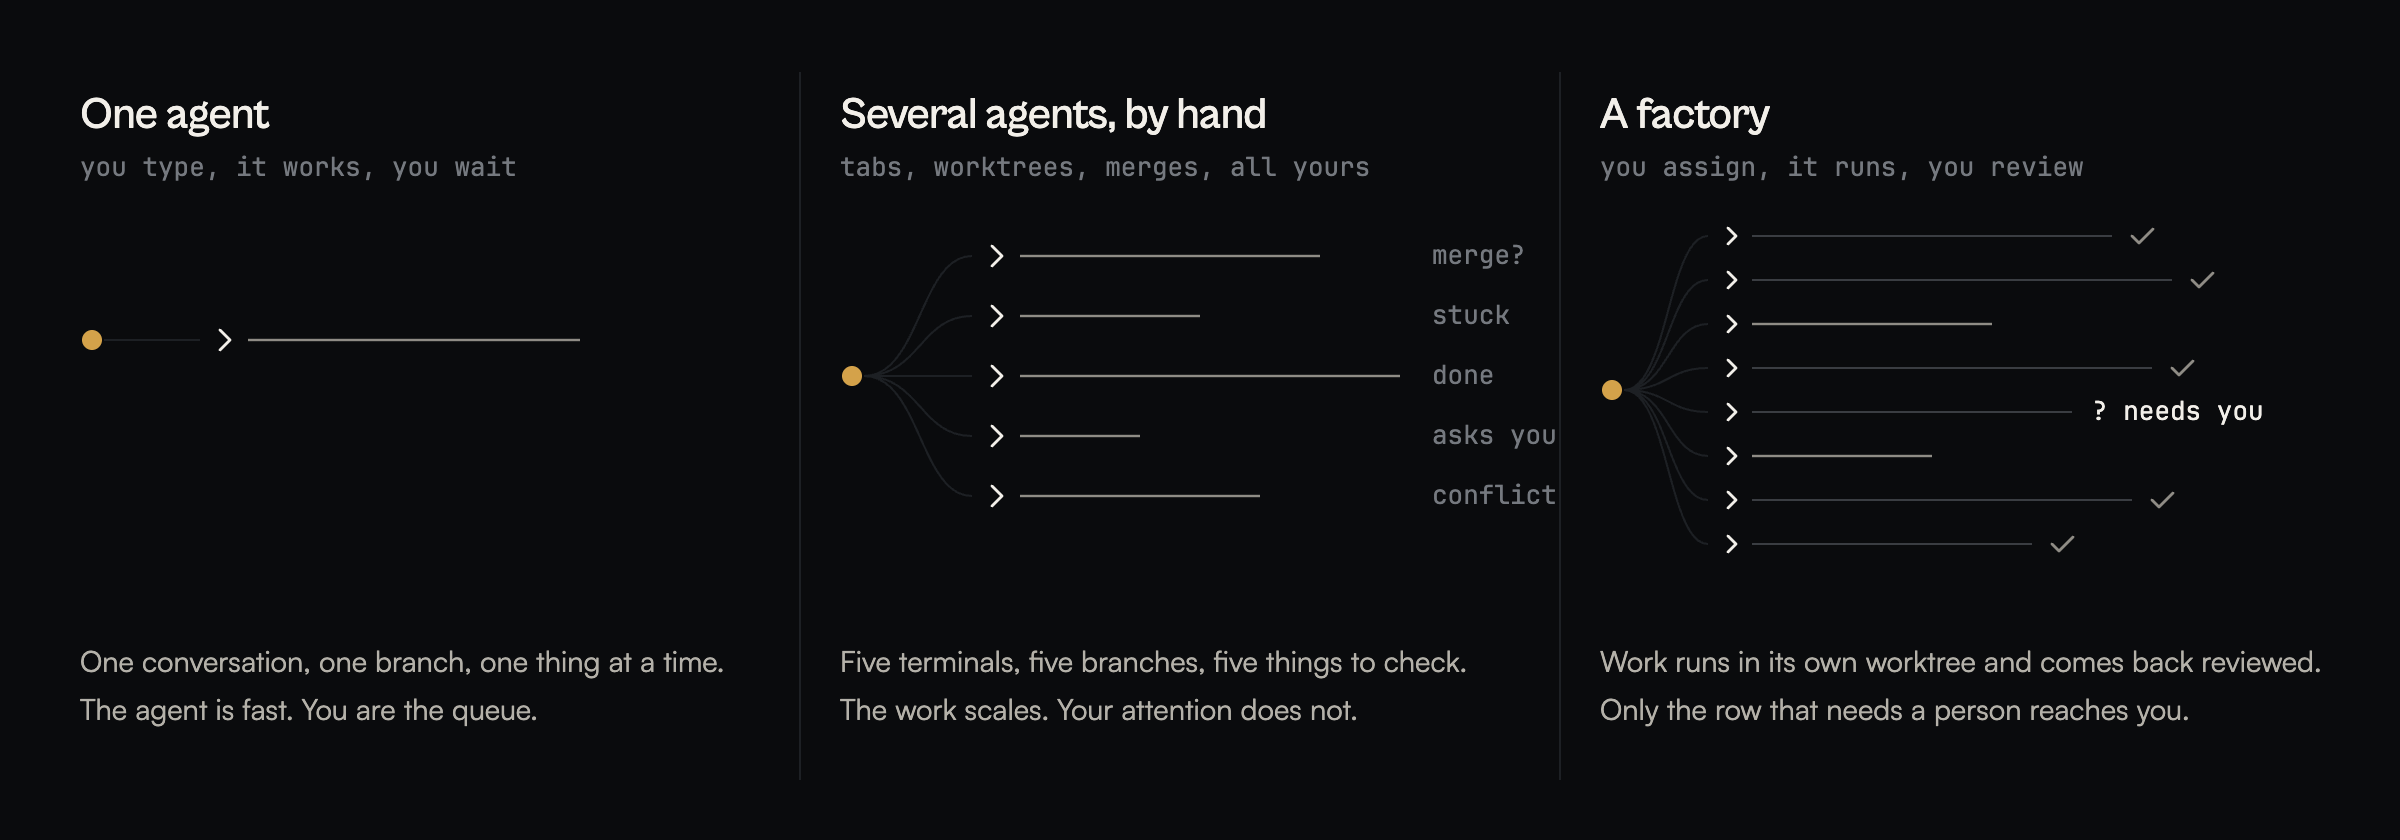
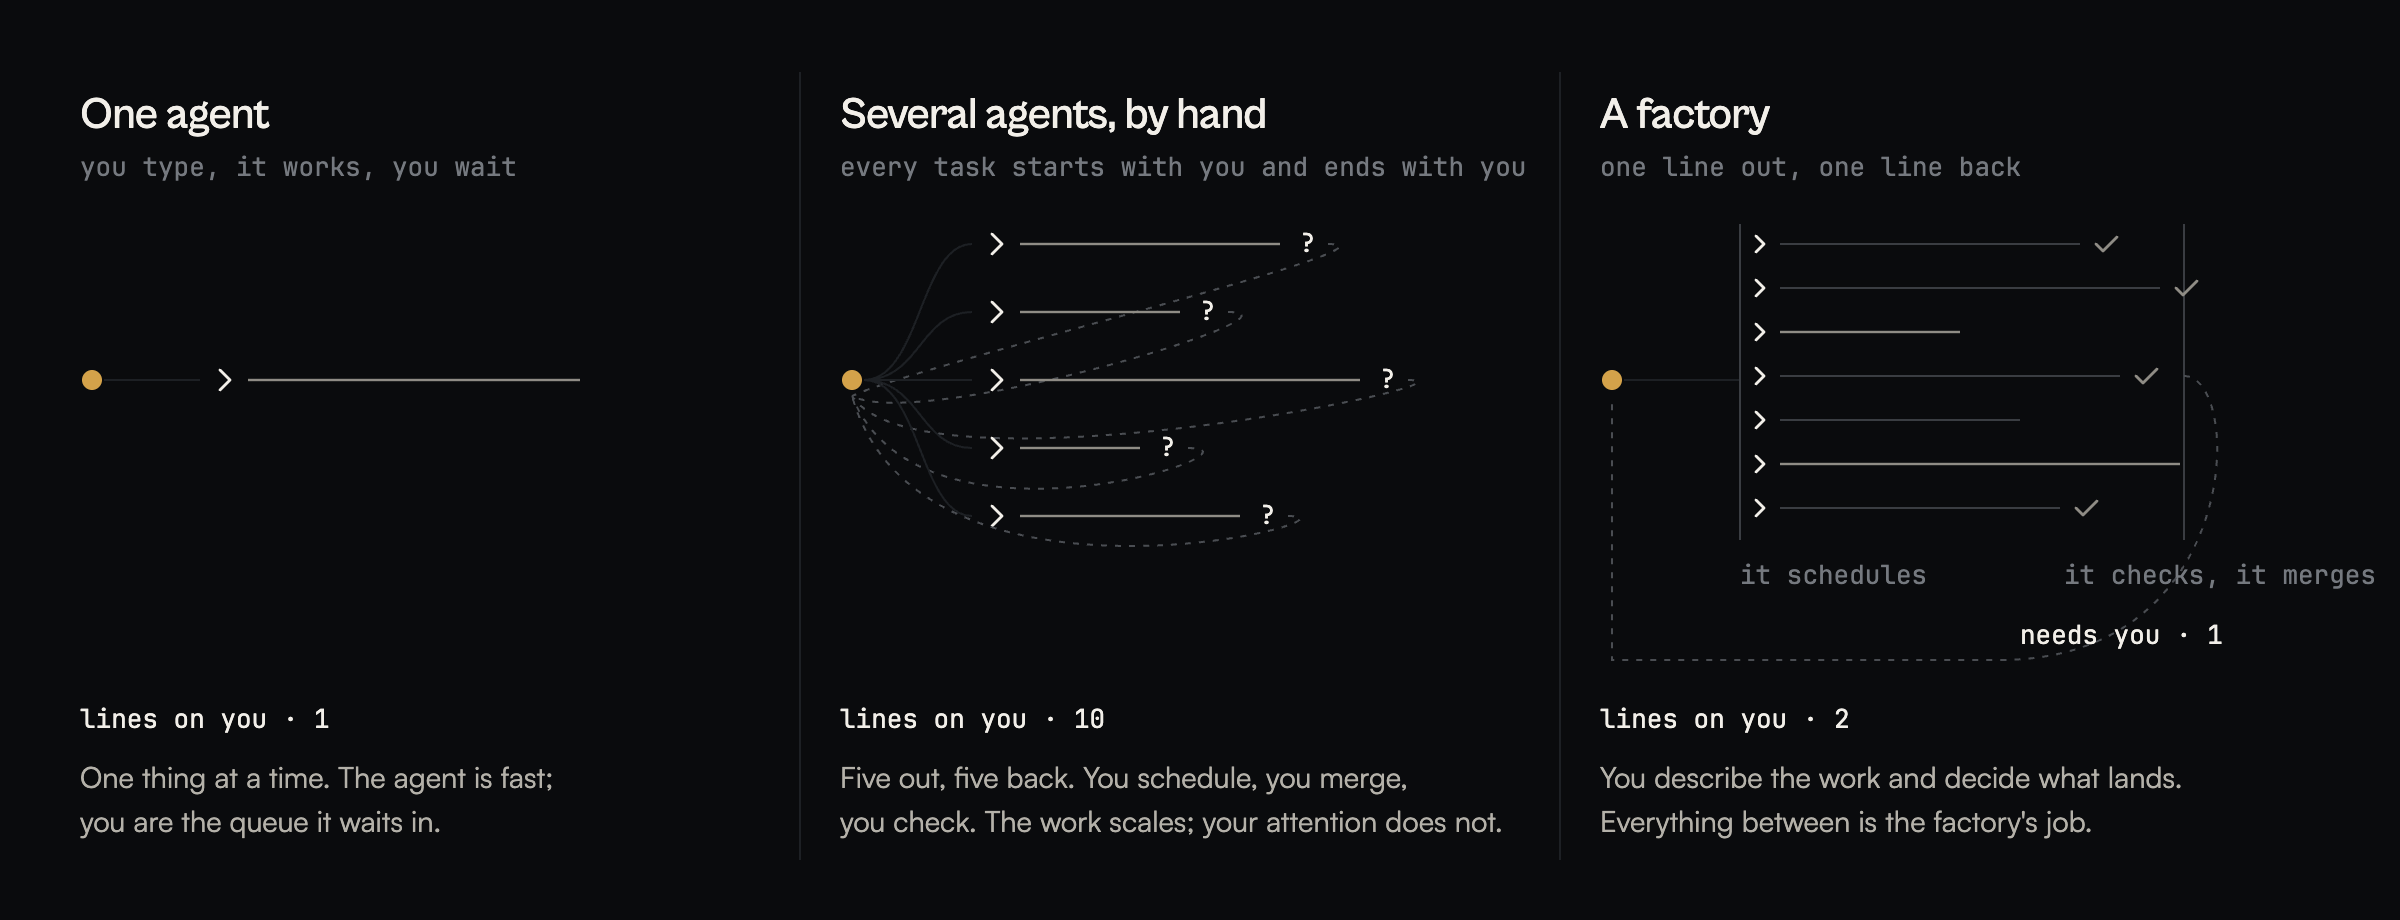
README: CodeAF in prose, the control room, the six seats, headless as a front door, a diagram that argues in lines

diff --git a/README.md b/README.md
@@ -1,6 +1,6 @@
 <div align="center">
 
-<img src="assets/readme/hero.jpg" alt="codeaf, the open-source software factory. Direct the work from your terminal, servers or phone." width="100%">
+<img src="assets/readme/hero.jpg" alt="CodeAF, the open-source software factory. Direct the work from your terminal, servers or phone. Any model, open by default." width="100%">
 
 <br>
 
@@ -13,16 +13,18 @@
 <a href="#install">Install</a> ·
 <a href="#what-a-factory-is">What a factory is</a> ·
 <a href="#benchmarks">Benchmarks</a> ·
+<a href="#headless-is-the-other-front-door">Headless</a> ·
 <a href="#switching-from-opencode-pi-or-aider">Switching</a> ·
 <a href="docs/GUIDE.md">Guide</a>
 </p>
 
 </div>
 
-codeaf is an open-source software factory for your terminal. You describe the
-work. It runs in its own worktree, on the model you choose, and comes back for
-your review. One binary, no account, no service to run. Any model, open models
-by default. Apache 2.0. By [AgentField AI](https://agentfield.ai).
+CodeAF is an open-source software factory for your terminal. You describe the
+work and decide what lands. It plans, runs, checks and merges, on the model
+you choose for each call, and comes back only when it needs you. One binary, no
+account, no service to run. Any model, open models by default. Apache 2.0. By
+[AgentField AI](https://agentfield.ai).
 
 ## Install
 
@@ -31,17 +33,16 @@ curl -fsSL https://agentfield.ai/get/codeaf | bash
 codeaf
 ```
 
-The script fetches the release binary for your platform into `~/.codeaf/bin`.
-Prefer to build it yourself: `git clone`, `make build`, `bin/codeaf`
+The script puts the release binary for your platform in `~/.codeaf/bin`. To
+build it yourself: `git clone`, `make build`, `bin/codeaf`
 ([guide](docs/GUIDE.md#install)). Release assets, checksums and version
 pinning are on the [releases page](https://github.com/Agent-Field/codeaf/releases).
 
 On first start it asks for a key: OpenRouter, DeepSeek, GLM, Kimi, MiniMax or
 Qwen. Point it at Ollama and it needs no key.
 
-Everything is in the one binary: the tools, tasks and their worktrees,
-standing orders, memory, spend, search, remote access, the headless commands
-and a manual about itself.
+Everything is in the one binary: the tools, tasks, standing orders, memory,
+spend, search, remote access, the headless commands and a manual about itself.
 
 <!-- TODO: binary size, cold start, idle memory. -->
 
@@ -55,8 +56,8 @@ want to watch.
    per-client backoff numbers, and make the tests pass
 ```
 
-The task exists when you press enter. It cuts a worktree, works there, and the
-conversation is yours again. Describe the work without `/task` and codeaf
+The task exists when you press enter. It works on its own branch, and the
+conversation is yours again. Describe the work without `/task` and CodeAF
 proposes one on a card when the job is bigger than a few edits, and waits for
 your yes.
 
@@ -68,7 +69,7 @@ Nothing merges without you.
      lands, `a` accepts it. 160x45, about 20s, scripted with vhs. -->
 <img src="assets/readme/screens/tasks.png" alt="a conversation with tasks running in the column beside it" width="100%">
 
-Every turn ends with its price, so you always know what a thing cost.
+Every turn ends with its price.
 
 ```text
                                           · 19:31 · 3.2s · 1 tool call · $0.0008 · ❮
@@ -77,23 +78,28 @@ Every turn ends with its price, so you always know what a thing cost.
 
 ## What a factory is
 
-If you have three terminals open with three agents, three worktrees and a merge
-waiting, you already run a factory, by hand. The agents got fast. The
-scheduling, the merging and the checking stayed with you.
+If you have three terminals open with three agents and a merge waiting, you
+already run a factory, by hand. The agents got fast. The scheduling, the
+checking and the merging stayed with you, and every task starts with you and
+ends with you.
 
-<img src="assets/readme/how-work-changes.png" alt="one agent: you wait. several agents by hand: you are the scheduler. a factory: you assign and review." width="100%">
+<img src="assets/readme/how-work-changes.png" alt="one agent: one line on you, you wait. several agents by hand: ten lines on you, you schedule, merge and check. a factory: one line out, one line back." width="100%">
 
-More work in flight means more to check, so a factory only helps if checking
-gets cheaper. Two things do that here.
+Count the lines that touch the person. A factory is the third picture: one
+line out, one line back. What makes that possible:
 
-- **Work runs where it cannot collide.** Each task gets its own worktree and
-  its own budget. It keeps a record you can read, and it comes back as one
-  thing to accept or send back, not five terminals to reconcile.
+- **The factory does the middle.** It sizes the work, splits it when one
+  worker is not enough, runs the parts where they cannot collide, tests what
+  came back, and merges what passed. You see one thing per task: land it, or
+  send it back.
+- **It asks only when it must.** A question a person has to answer waits under
+  `needs you` on `home`. Everything else it decides, records the decision, and
+  carries on.
 - **Specialist tasks check themselves.** Work that comes round in the same
   shape (review this pull request, chase this flaky test, audit these
-  dependencies) runs as a saved program with typed input and typed output.
-  It plans, fans out, tests its own result, and either produces what it
-  promised or is marked incomplete. Those are the tasks in the benchmark below.
+  dependencies) runs as a saved program with typed input and typed output. It
+  either produces what it promised or is marked incomplete. Those are the tasks
+  in the benchmark below.
 
 <!-- TODO: settle the public name. The manual calls these subharnesses and the
      command is /subharness; this README says specialist task. -->
@@ -109,54 +115,101 @@ below on the same open model, `[MODEL]`. Versions and configs are in
 
 | harness | version | pass rate | cost per issue | time per issue |
 | --- | --- | --- | --- | --- |
-| codeaf | `[..]` | `[..]` | `[..]` | `[..]` |
+| CodeAF | `[..]` | `[..]` | `[..]` | `[..]` |
 | `[HARNESS]` | `[..]` | `[..]` | `[..]` | `[..]` |
 | `[HARNESS]` | `[..]` | `[..]` | `[..]` | `[..]` |
 | `[HARNESS]` | `[..]` | `[..]` | `[..]` | `[..]` |
 
-codeaf is on the frontier: the harnesses that passed more cost more and took
+CodeAF is on the frontier: the harnesses that passed more cost more and took
 longer, and the ones that cost less passed fewer. Rerun it on your own
 repository with `bench/` and send us the numbers.
 
-## What a copilot does, and what codeaf does
+## The right model for each call
 
-| | a copilot | codeaf |
-| --- | --- | --- |
-| where you work | one window, one repository | every project on the machine, from one home screen |
-| what you do | watch it type | describe work, answer questions, review what lands |
-| what it works in | your checkout | a worktree per task, merged when you accept |
-| how long it lasts | one session | conversations, tasks and standing orders that outlive the window |
-| what you pay | a seat | the tokens, priced on every turn, under a daily limit you set |
+CodeAF runs six model seats, and picks the seat per call, not per session.
+Seat one is the model you talk to. The other five are the crew, for the calls
+you did not type:
 
-## Seven places, one machine
-
-codeaf gives every machine seven full-screen places, reached with `alt+1` to
-`alt+7` from anywhere. `esc` returns to the conversation you were in.
-
-| place | what it shows |
+| seat | what it answers |
 | --- | --- |
-| `home` | what needs you, what is running, what happened while you were away, what today cost |
-| `tasks` | every task on the machine, by the conversation that started it, with state and cost |
-| `spend` | cost by day, by model and by task |
-| `settings` | models, the crew, connected accounts, limits |
-| `standing` | the orders that keep running, when they last fired, what they cost |
-| `memory` | what codeaf remembers about you and your projects, line by line, editable |
-| `search` | every past conversation |
+| reflex | memory, titles, the safety gate. Near free, reads every turn. |
+| small work | digests, task names, yes-or-no checks |
+| worker | every task you hand off. Most of the bill. |
+| careful work | checks on finished work, the brief a task is shaped into, vision |
+| mastermind | plans runs and designs specialist tasks |
+
+Three presets ship, all on open weights. `/crew frugal`, `balanced` or `max`
+sets the five in one word; any seat can be pinned to its own model.
+
+| preset | worker | careful work | mastermind |
+| --- | --- | --- | --- |
+| frugal | deepseek-v4-flash | glm-5.3-flash | glm-5.3-flash |
+| balanced | glm-5.3-flash | qwen3.8-27b | glm-5.3 |
+| max | glm-5.3 | kimi-k3 | kimi-k3 |
+
+Under that, the provider is chosen per request from what has finished fastest
+for this kind of call, and every settled task is graded by the check it already
+had to pass, so work that keeps failing on the worker seat is lifted to careful
+work on its own. `codeaf models` prints the ratings. Reasoning effort is a
+ladder, `low` to `max`, per seat.
+
+<img src="assets/readme/screens/crew.png" alt="/crew: the chat model and five seats, frugal, balanced and max" width="100%">
+
+Providers built in: OpenRouter, DeepSeek, GLM, Kimi, MiniMax, Qwen, Ollama and
+any OpenAI-compatible endpoint. Set a daily limit on first start; `spend`
+shows where it went.
+
+## Home is the control room
+
+A factory that runs without you needs one screen that answers, in order: what
+needs me, what is running, what happened while I was away, and what did it
+cost. That is `home`, and it is what a bare `codeaf` opens once the machine has
+work on it.
 
 <img src="assets/readme/screens/home.png" alt="home: needs you, where you were, projects, running, since you left, spend, next up" width="100%">
 
-<img src="assets/readme/screens/tasks-tree.png" alt="the tasks place: conversations, their tasks and sub-tasks, with state and cost" width="100%">
+Every project on the machine is on it, not only the folder you started in. A
+digit answers a question from the row it is asked on. `enter` on a landed task
+opens it with its diff, its test run and its cost; `a` accepts.
 
 <img src="assets/readme/screens/review.png" alt="a task page: finished, but nobody has checked it. your call." width="100%">
+
+Six more places sit behind it, one key each: `tasks` (every task on the
+machine, with state and cost), `spend` (by day, model and task), `settings`,
+`standing`, `memory` (what CodeAF remembers about you and your projects, line
+by line, editable) and `search` (every past conversation). Conversations,
+tasks and spend are written to disk as they happen, so a crash or a closed
+laptop loses nothing, and `esc esc` rewinds a conversation to any earlier
+message.
 
 ## Standing orders
 
 Say "always run the tests before you land" or "every morning, check the
-release radar". codeaf asks whether you mean once or from now on, and it
+release radar". CodeAF asks whether you mean once or from now on, and it
 becomes a standing order: a timer, a budget, and the same review as everything
 else.
 
 <img src="assets/readme/screens/standing.png" alt="the standing place: four orders, when they fired, what they cost" width="100%">
+
+## Headless is the other front door
+
+The factory has two doors. The conversation is one. The other is a command
+that runs the same brain with the conversation removed, for CI, a cron job, a
+script, or a benchmark harness.
+
+```bash
+codeaf do "bump every dependency whose changelog is worth reading" --timeout 30m --json
+```
+
+`do` takes your brief byte for byte, plans it, runs it, checks it, and prints
+one JSON object and an exit code. Nothing that exists for a person watching is
+paid for: no title, no memory reflex, no screen. Where the conversation would
+stop to ask, `do` takes the best answer it has, records that it assumed, and
+carries on. `exec` runs one worker with no plan; `run` executes a plan you
+have read and edited. The exit code says how much is wrong; the `stop` field
+says what. [The contract](docs/HEADLESS.md).
+
+<!-- TODO: confirm "no title, no memory reflex" against the code. -->
 
 ## From your terminal, your servers, or your phone
 
@@ -186,37 +239,35 @@ there at phone width: what needs you, a digit to answer, a key to accept.
 
 ## What it is allowed to touch
 
-A task writes in its own worktree and nowhere else. In the conversation, a
+A task writes on its own branch and nowhere else. In the conversation, a
 command the rules do not already allow is held up and shown to you first:
 `1` allow once, `2` always this command, `3` deny. `--yolo` turns the asking
-off for a session and says so on the status line. There is no telemetry.
+off for a session and says so on the status line. Nothing leaves your machine
+except the model calls you configured.
 
-<!-- TODO: confirm "no telemetry" against the code before publishing. -->
-
-## Any model, open by default
-
-Providers built in: OpenRouter, DeepSeek, GLM, Kimi, MiniMax, Qwen, Ollama and
-any OpenAI-compatible endpoint. Each of the five crew seats has its own model.
-Three presets ship, all on open weights:
-
-| preset | worker | high | mastermind |
-| --- | --- | --- | --- |
-| frugal | deepseek-v4-flash | glm-5.3-flash | glm-5.3-flash |
-| balanced | glm-5.3-flash | qwen3.8-27b | glm-5.3 |
-| max | glm-5.3 | kimi-k3 | kimi-k3 |
-
-<img src="assets/readme/screens/crew.png" alt="/crew: the chat model and five seats, frugal, balanced and max" width="100%">
+<!-- TODO: confirm the telemetry sentence against the code before publishing. -->
 
 Open source under Apache 2.0, all of it, including the runtime and the
 specialist tasks. You are giving a program write access to your repositories.
 You should be able to read every line of it.
 
+## What a copilot does, and what CodeAF does
+
+| | a copilot | CodeAF |
+| --- | --- | --- |
+| where you work | one window, one repository | every project on the machine, from one control room |
+| what you do | watch it type | describe work, answer what needs you, decide what lands |
+| what runs | one model, one thread | six seats, chosen per call, on open weights |
+| how long it lasts | one session | conversations, tasks and standing orders that outlive the window |
+| without you | it stops | headless, standing orders, a phone in your pocket |
+| what you pay | a seat | the tokens, priced on every turn, under a daily limit you set |
+
 ## Switching from opencode, pi or aider
 
 Your keys and providers carry over. The conversation works the same way.
-Everything around it is new: a home screen across projects, tasks in their own
-worktrees that wait for your call, standing orders, spend by model, and a
-session you can reach over ssh or from a phone.
+Everything around it is new: a control room across projects, tasks that wait
+for your call, a crew of models chosen per call, standing orders, a headless
+door, and a session you can reach over ssh or from a phone.
 
 ## Roadmap
 
@@ -225,9 +276,9 @@ v0.1.0 shipped on 2026-08-17. `[N]` changes since, each written up in
 
 | shipped | launch, `[DATE]` | next |
 | --- | --- | --- |
-| conversation, tasks, worktrees, review | binaries and installer for every platform | team server: one machine, every engineer's factory |
-| seven places, standing orders, memory | benchmark results and chart | web view |
-| open-model crew, spend limits | `[..]` | identity and a signed record per task, through the AgentField control plane, Apache 2.0 like the rest |
+| conversation, tasks, review | binaries and installer for every platform | team server: one machine, every engineer's factory |
+| home, standing orders, memory | benchmark results and chart | web view |
+| six-seat crew, spend limits | `[..]` | identity and a signed record per task, through the AgentField control plane, Apache 2.0 like the rest |
 | ssh, relay, phone, headless | | |
 
 Vote in [Discussions](https://github.com/Agent-Field/codeaf/discussions).
